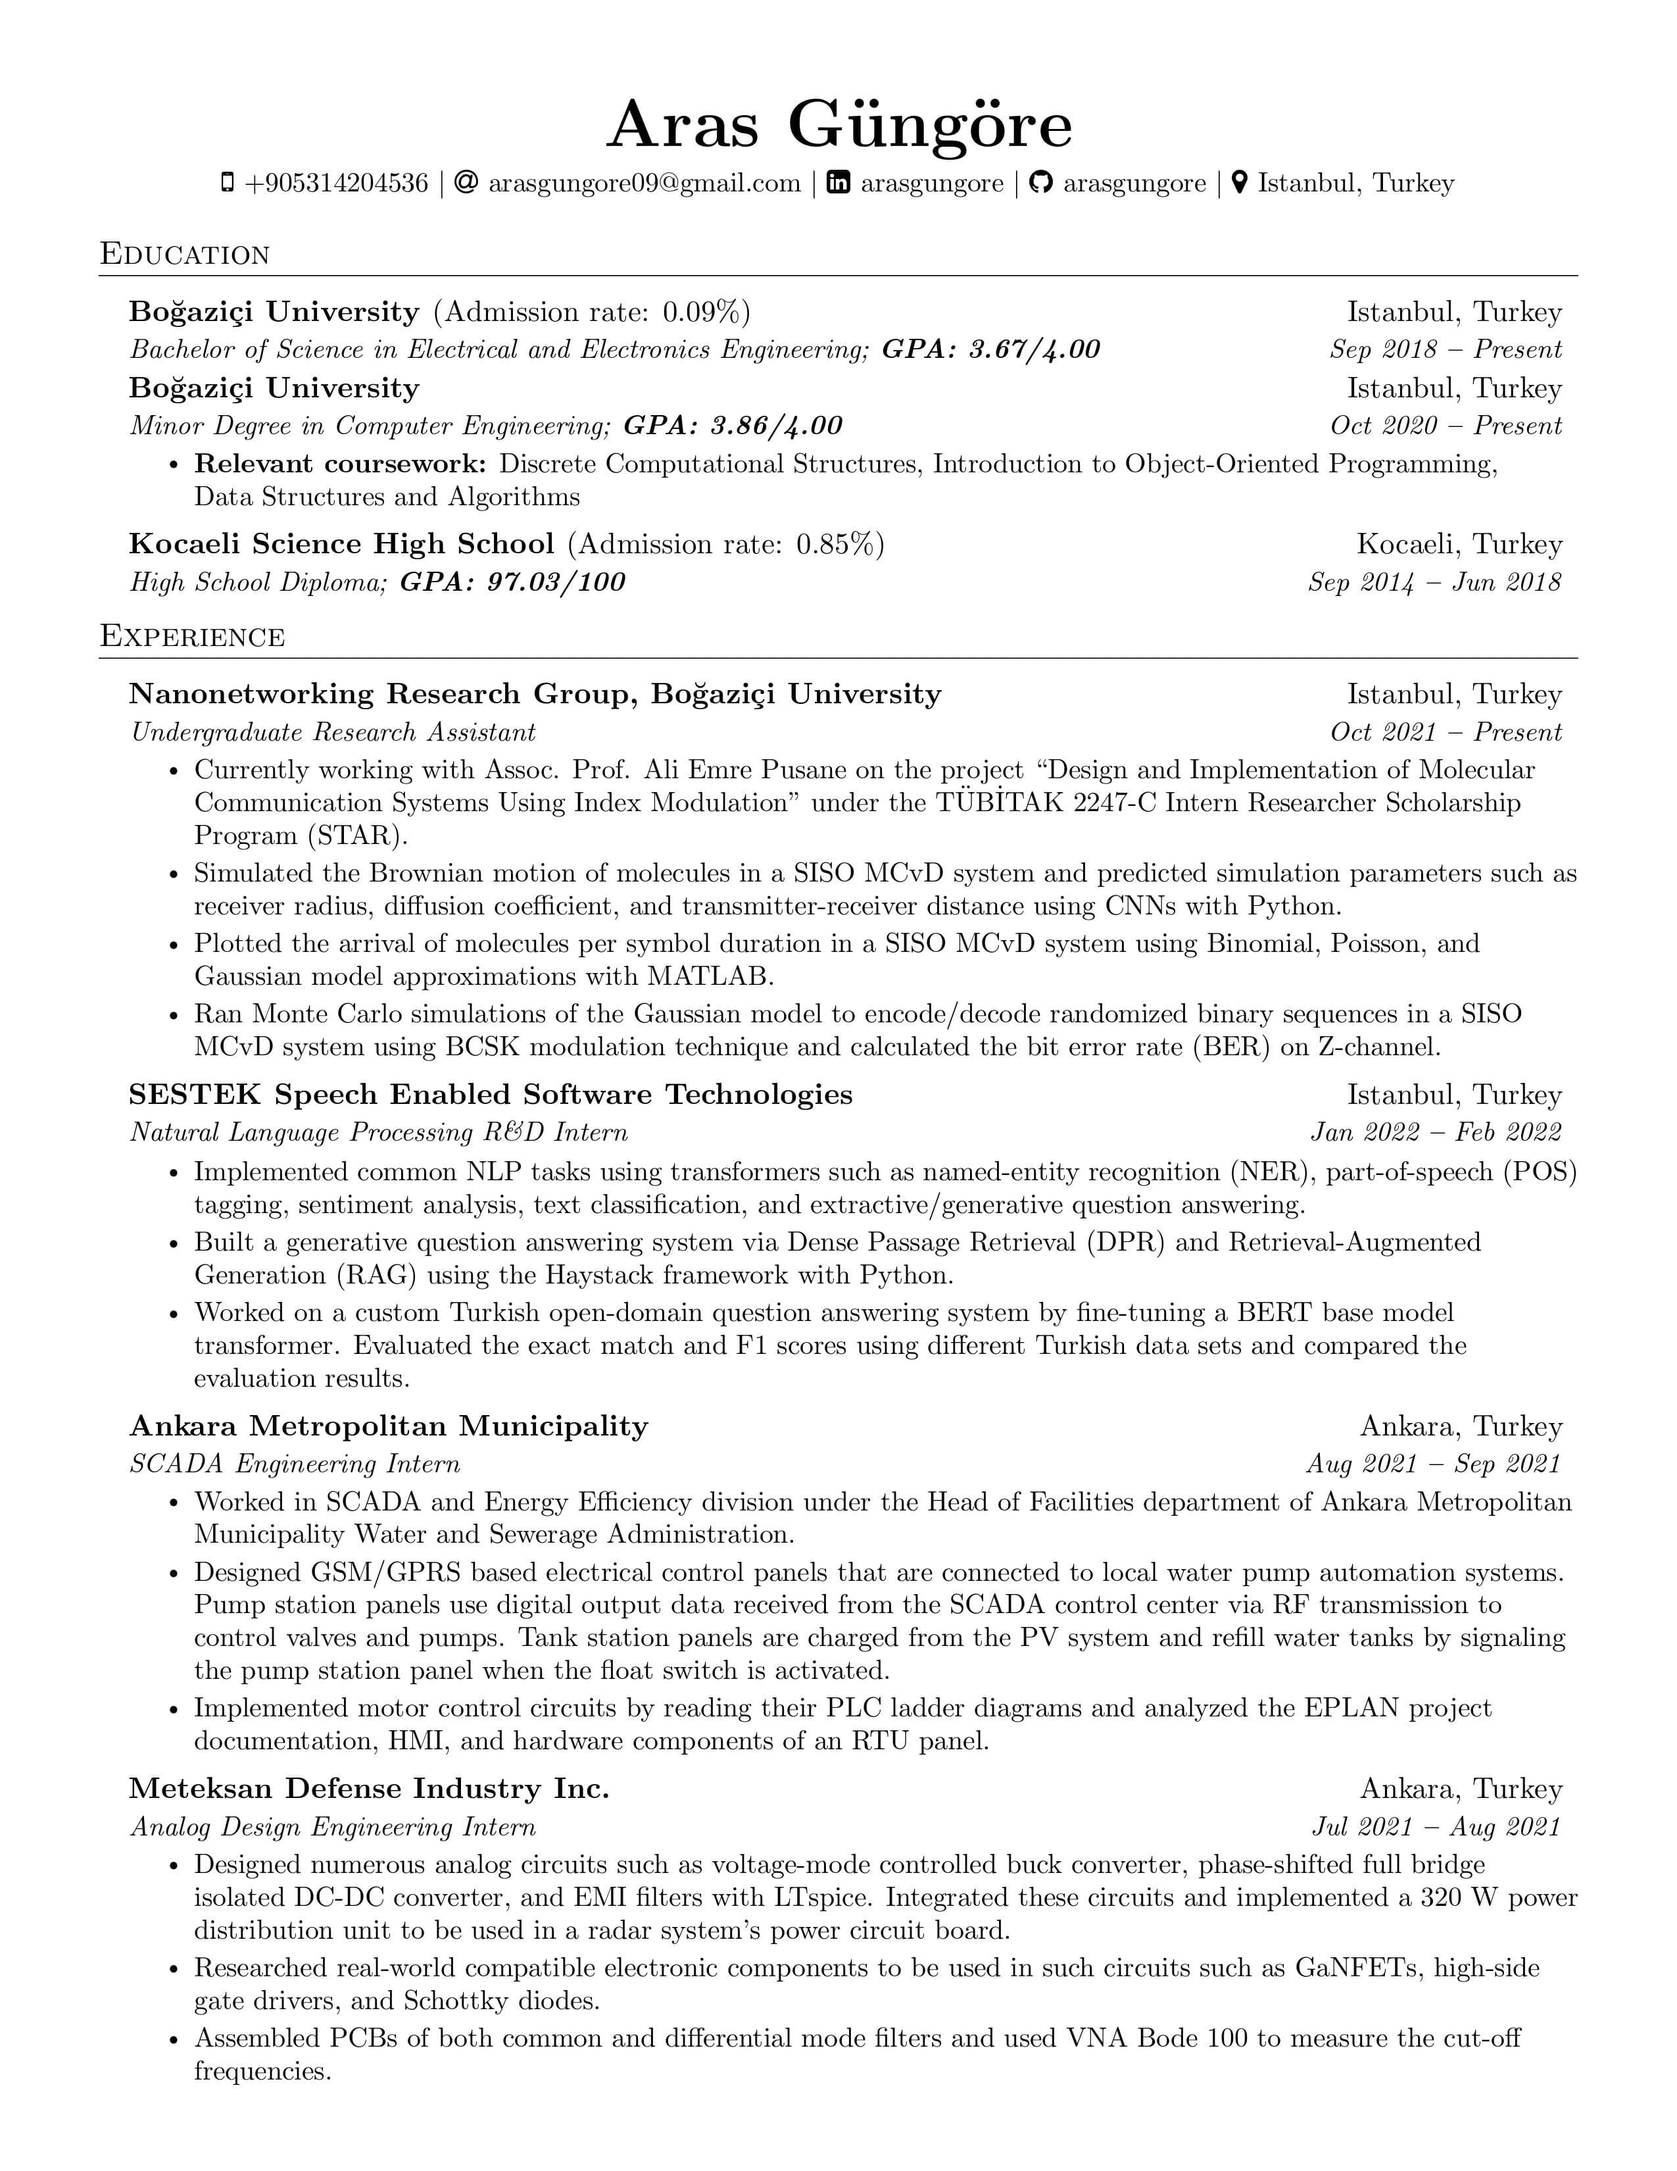
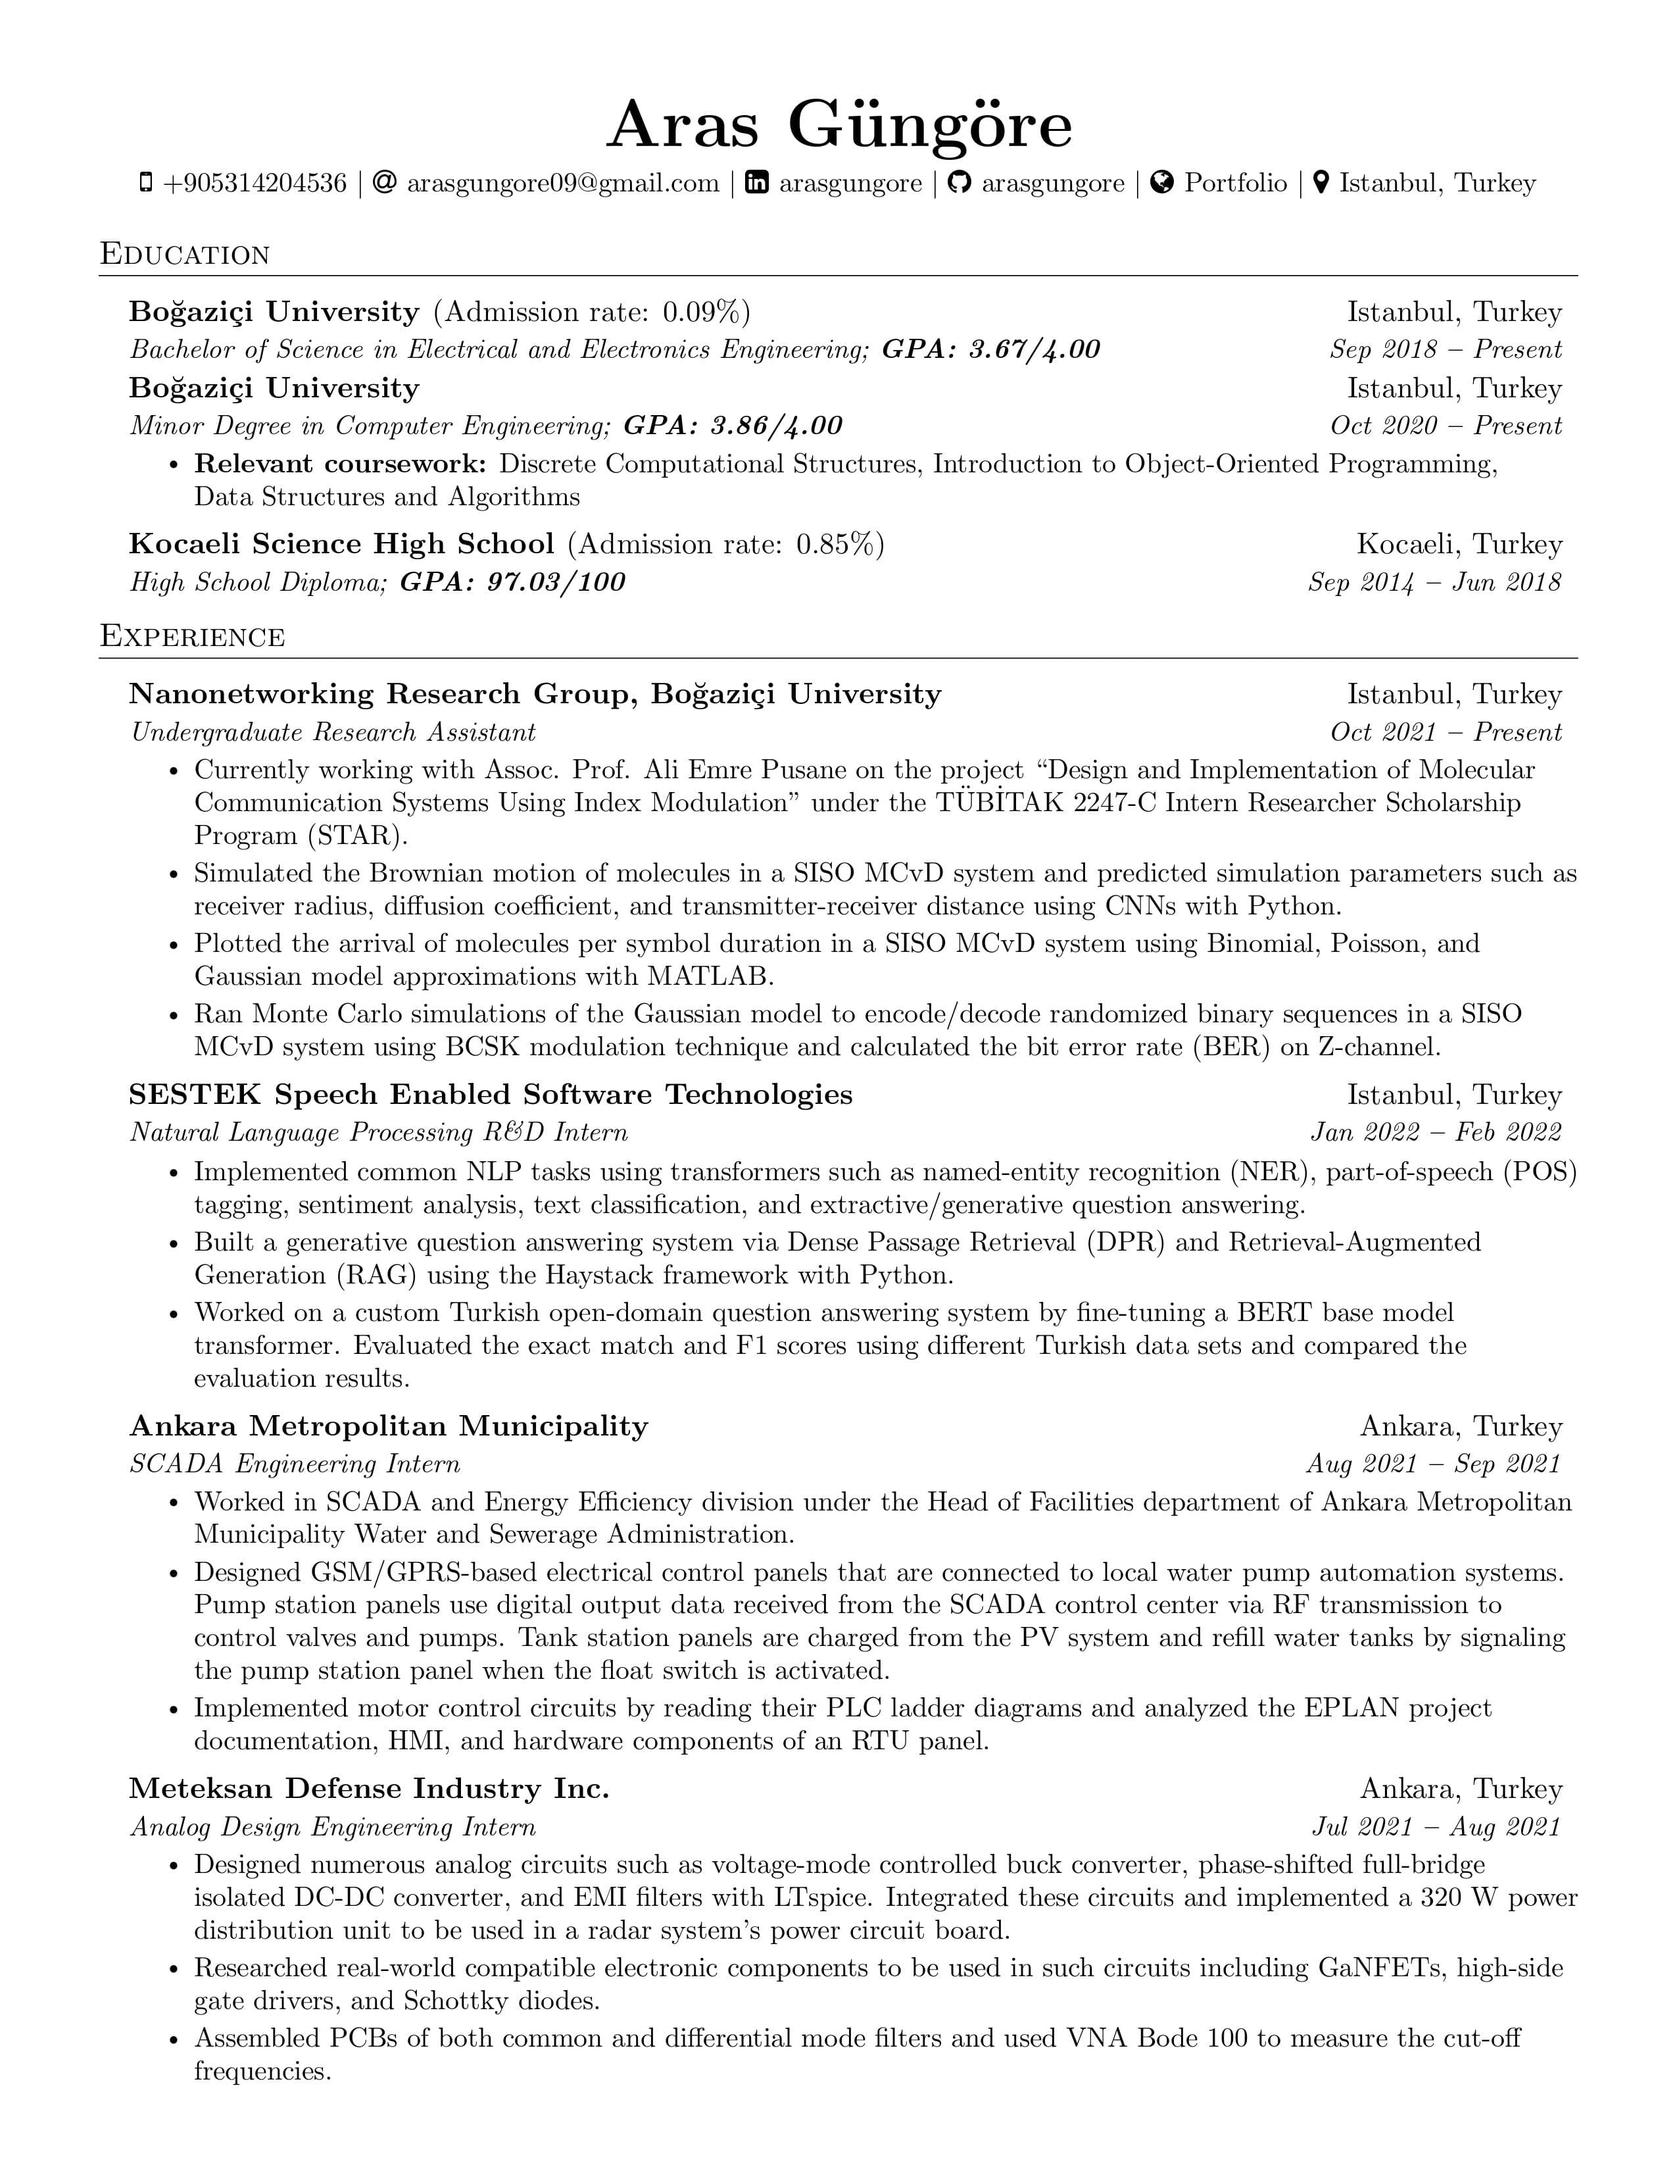
Updated CV

Changed region(s): [[0.1239, 0.0624, 0.8675, 0.0936], [0.7125, 0.9052, 0.8055, 0.9364], [0.8675, 0.9052, 0.8984, 0.9364]]

diff --git a/main.tex b/main.tex
@@ -125,7 +125,10 @@
     $|$
     \faLinkedinSquare \hspace{.5pt} \href{https://www.linkedin.com/in/arasgungore}{arasgungore}
     $|$
-    \faGithub \hspace{.5pt} \href{https://github.com/arasgungore}{arasgungore} $|$
+    \faGithub \hspace{.5pt} \href{https://github.com/arasgungore}{arasgungore}
+    $|$
+    \faGlobe \hspace{.5pt} \href{https://arasgungore.github.io}{Portfolio}
+    $|$
     \faMapMarker \hspace{.5pt} \href{https://www.google.com/maps/place/Bogazici+University+North+Campus/@41.0863067,29.0441352,15z/data=!4m5!3m4!1s0x0:0x9d2497b07c8edb2f!8m2!3d41.0863067!4d29.0441352}{Istanbul, Turkey}
 \end{center}
 
@@ -198,7 +201,7 @@
       {SCADA Engineering Intern}{Aug 2021 \textbf{--} Sep 2021}
         \resumeItemListStart
             \resumeItem{Worked in SCADA and Energy Efficiency division under the Head of Facilities department of Ankara Metropolitan Municipality Water and Sewerage Administration.}
-            \resumeItem{Designed GSM/GPRS based electrical control panels that are connected to local water pump automation systems. Pump station panels use digital output data received from the SCADA control center via RF transmission to control valves and pumps. Tank station panels are charged from the PV system and refill water tanks by signaling the pump station panel when the float switch is activated.}
+            \resumeItem{Designed GSM/GPRS-based electrical control panels that are connected to local water pump automation systems. Pump station panels use digital output data received from the SCADA control center via RF transmission to control valves and pumps. Tank station panels are charged from the PV system and refill water tanks by signaling the pump station panel when the float switch is activated.}
             \resumeItem{Implemented motor control circuits by reading their PLC ladder diagrams and analyzed the EPLAN project documentation, HMI, and hardware components of an RTU panel.}
         \resumeItemListEnd
     
@@ -206,8 +209,8 @@
       {Meteksan Defense Industry Inc.}{Ankara, Turkey}
       {Analog Design Engineering Intern}{Jul 2021 \textbf{--} Aug 2021}
         \resumeItemListStart
-            \resumeItem{Designed numerous analog circuits such as voltage-mode controlled buck converter, phase-shifted full bridge isolated DC-DC converter, and EMI filters with LTspice. Integrated these circuits and implemented a 320 W power distribution unit to be used in a radar system's power circuit board.}
-            \resumeItem{Researched real-world compatible electronic components to be used in such circuits such as GaNFETs, high-side gate drivers, and Schottky diodes.}
+            \resumeItem{Designed numerous analog circuits such as voltage-mode controlled buck converter, phase-shifted full-bridge isolated DC-DC converter, and EMI filters with LTspice. Integrated these circuits and implemented a 320 W power distribution unit to be used in a radar system's power circuit board.}
+            \resumeItem{Researched real-world compatible electronic components to be used in such circuits including GaNFETs, high-side gate drivers, and Schottky diodes.}
             \resumeItem{Assembled PCBs of both common and differential mode filters and used VNA Bode 100 to measure the cut-off frequencies.}
         \resumeItemListEnd
     
@@ -224,10 +227,10 @@
         \textbf{National University Admission Exam (YKS):}{ Ranked $75^{th}$ in Mathematics and Science among ca. 2.3 million candidates with a test score of 489.92/500.} \\ \vspace{3pt}
         \textbf{KYK Outstanding Success Scholarship:}{ Awarded to undergraduate students who have been ranked in the top 100 on National University Admission Exam by Higher Education Credit and Hostels Institution (KYK).} \\ \vspace{3pt}
         \textbf{Boğaziçi University Success Scholarship:}{ Awarded to undergraduate students who have been ranked in the top 100 on National University Admission Exam by Boğaziçi University.} \\ \vspace{3pt}
-        \textbf{TÜBİTAK 2247-C Intern Researcher Scholarship:}{ Awarded to undergraduate students who take part in research projects carried out by Scientific and Technological Research Council of Turkey (TÜBİTAK).} \\ \vspace{3pt}
+        \textbf{TÜBİTAK 2247-C Intern Researcher Scholarship:}{ Awarded to undergraduate students who take part in research projects carried out by the Scientific and Technological Research Council of Turkey (TÜBİTAK).} \\ \vspace{3pt}
         \textbf{Duolingo English Test (DET):}{ Overall Score: 135/160} \\ \vspace{3pt}
-        \textbf{Boğaziçi University English Proficiency Test (BUEPT):}{ Achieved the highest grade A on the BUEPT grading scheme with a total score in the range of 85-100.} \\ \vspace{3pt}
-        \textbf{Kocaeli Science High School Salutatorian Award:}{ Graduated as the second highest ranked student in my class.}
+        % \textbf{Boğaziçi University English Proficiency Test (BUEPT):}{ Achieved the highest grade A on the BUEPT grading scheme with a total score in the range of 85-100.} \\ \vspace{3pt}
+        \textbf{Kocaeli Science High School Salutatorian Award:}{ Graduated as the second-highest ranked student in my class.}
     }}
  \resumeSubHeadingListEnd
 
@@ -256,21 +259,21 @@
       \resumeProjectHeading
         {\textbf{Rocket Flight Simulator} $|$ \emph{\href{https://github.com/arasgungore/rocket-flight-simulator}{\color{blue}GitHub}}}{}
           \resumeItemListStart
-            \resumeItem{A Simulink project which can accurately simulate the motion of a rocket during flight in one-dimensional space.}
-            \resumeItem{The project implements the forces acting on a rocket which are drag, weight, and thrust as subsystems that take time-variant parameters into consideration such as distance from center of Earth, mass and velocity of the rocket, and air density at different layers of Earth's atmosphere.}
+            \resumeItem{A Simulink project which can accurately simulate the motion of a flying rocket in one-dimensional space.}
+            \resumeItem{The project implements the forces acting on a rocket which are drag, weight, and thrust as subsystems that take time-variant parameters into consideration such as distance from the center of Earth, mass and velocity of the rocket, and air density at different layers of Earth's atmosphere.}
           \resumeItemListEnd
       
       \resumeProjectHeading
         {\textbf{Netlist Solver} $|$ \emph{\href{https://github.com/arasgungore/netlist-solver}{\color{blue}GitHub}}}{}
           \resumeItemListStart
             \resumeItem{A MATLAB project that uses modified nodal analysis (MNA) algorithm to calculate the node voltages of any analog circuit without dependent sources given in netlist format.}
-            \resumeItem{Added a module which sweeps the resistance of a load resistor, plots power dissipation as a function of load resistance, and finds the resistance value corresponding to maximum power.}
+            \resumeItem{Added a module that sweeps the resistance of a load resistor, plots power dissipation as a function of load resistance, and finds the resistance value corresponding to maximum power.}
           \resumeItemListEnd
       
       \resumeProjectHeading
         {\textbf{CMPE 250 Projects} $|$ \emph{\href{https://github.com/arasgungore/cmpe250-projects}{\color{blue}GitHub}}}{}
           \resumeItemListStart
-            \resumeItem{Five Java projects assigned for the Data Structures and Algorithms (CMPE 250) course on Fall 2021-22 semester.}
+            \resumeItem{Five Java projects assigned for the Data Structures and Algorithms (CMPE 250) course in the Fall 2021-22 semester.}
             \resumeItem{These projects apply DS\&A concepts such as discrete-event simulation (DES) using priority queues, Dijkstra's shortest path algorithm, Prim's algorithm to find the minimum spanning tree (MST), Dinic's algorithm for maximum flow problems, and weighted job scheduling with dynamic programming to real-world problems.}
           \resumeItemListEnd
       
